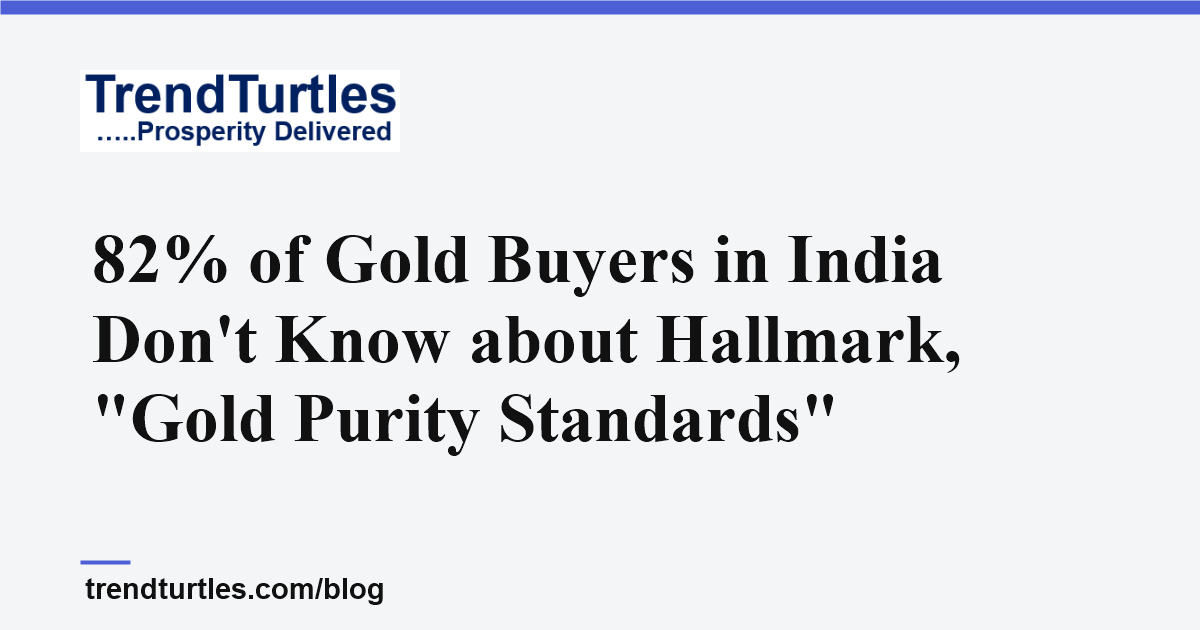
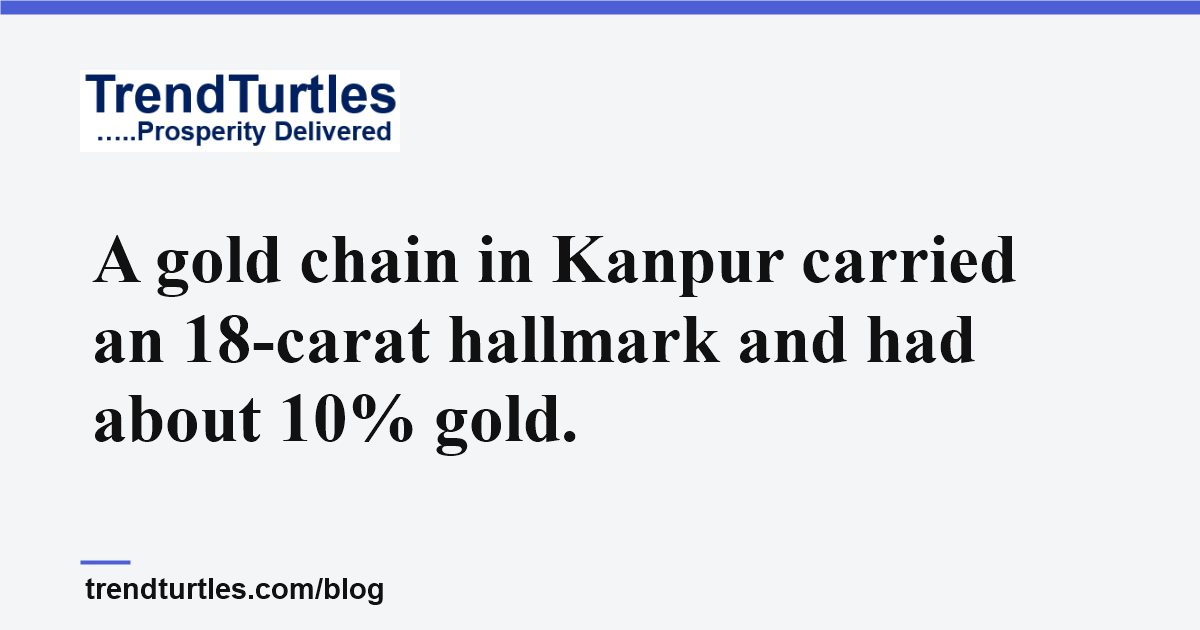
Rewrite hallmark post as series A episode (Kanpur 18K chain, about 10% gold); constitution: live episodes are updated, not duplicated

Changed region(s): [[0.0617, 0.3619, 0.8633, 0.6032], [0.0617, 0.6032, 0.7092, 0.7238]]

diff --git a/blog/gold-hallmark-check-india.html b/blog/gold-hallmark-check-india.html
@@ -3,12 +3,12 @@
 <head>
     <meta charset="UTF-8">
     <meta name="viewport" content="width=device-width, initial-scale=1.0">
-    <title>82% of Gold Buyers in India Don't Know about Hallmark</title>
-    <meta name="description" content="In a 2025 survey, only 18% of gold buyers in India said their jewellery had the 6-character hallmark code. Learn the 3 marks and the one-minute check.">
+    <title>Fake Gold Hallmark in India: 18K Mark, Only 10% Gold</title>
+    <meta name="description" content="A gold chain in Kanpur carried an 18-carat hallmark and had about 10% gold. Real fake hallmark cases, and the free BIS Care check that catches most of them.">
     <meta name="author" content="Mayank Gola">
     <meta name="robots" content="index, follow, max-snippet:-1, max-image-preview:large, max-video-preview:-1">
-    <meta property="og:title" content="82% of Gold Buyers in India Don't Know about Hallmark">
-    <meta property="og:description" content="In a 2025 survey, only 18% of gold buyers in India said their jewellery had the 6-character hallmark code. Learn the 3 marks and the one-minute check.">
+    <meta property="og:title" content="Fake Gold Hallmark in India: 18K Mark, Only 10% Gold">
+    <meta property="og:description" content="A gold chain in Kanpur carried an 18-carat hallmark and had about 10% gold. Real fake hallmark cases, and the free BIS Care check that catches most of them.">
     <meta property="og:url" content="https://trendturtles.com/blog/gold-hallmark-check-india.html">
     <meta property="og:type" content="article">
     <meta property="og:site_name" content="TrendTurtles">
@@ -16,8 +16,8 @@
     <meta property="og:image:width" content="1200">
     <meta property="og:image:height" content="630">
     <meta name="twitter:card" content="summary_large_image">
-    <meta name="twitter:title" content="82% of Gold Buyers in India Don't Know about Hallmark">
-    <meta name="twitter:description" content="In a 2025 survey, only 18% of gold buyers in India said their jewellery had the 6-character hallmark code. Learn the 3 marks and the one-minute check.">
+    <meta name="twitter:title" content="Fake Gold Hallmark in India: 18K Mark, Only 10% Gold">
+    <meta name="twitter:description" content="A gold chain in Kanpur carried an 18-carat hallmark and had about 10% gold. Real fake hallmark cases, and the free BIS Care check that catches most of them.">
     <meta name="twitter:image" content="https://trendturtles.com/assets/images/gold-hallmark-check-share.png">
     <link rel="canonical" href="https://trendturtles.com/blog/gold-hallmark-check-india.html">
     <link rel="icon" href="/favicon.ico" sizes="any">
@@ -29,11 +29,11 @@
     {
         "@context": "https://schema.org",
         "@type": "BlogPosting",
-        "headline": "82% of Gold Buyers in India Don't Know about Hallmark, \"Gold Purity Standards\"",
-        "description": "In a 2025 survey, only 18% of gold buyers in India said their jewellery had the 6-character hallmark code. Learn the 3 marks and the one-minute check.",
+        "headline": "A gold chain in Kanpur carried an 18-carat hallmark and had about 10% gold.",
+        "description": "A gold chain in Kanpur carried an 18-carat hallmark and had about 10% gold. Real fake hallmark cases, and the free BIS Care check that catches most of them.",
         "mainEntityOfPage": "https://trendturtles.com/blog/gold-hallmark-check-india.html",
         "datePublished": "2026-10-08",
-        "dateModified": "2026-10-18",
+        "dateModified": "2026-10-20",
         "inLanguage": "en-IN",
         "image": "https://trendturtles.com/assets/images/gold-hallmark-check-share.png",
         "author": {
@@ -61,7 +61,7 @@
         "itemListElement": [
             {"@type": "ListItem", "position": 1, "name": "Home", "item": "https://trendturtles.com/"},
             {"@type": "ListItem", "position": 2, "name": "Blog", "item": "https://trendturtles.com/blog/"},
-            {"@type": "ListItem", "position": 3, "name": "How to Recognise a Gold Hallmark", "item": "https://trendturtles.com/blog/gold-hallmark-check-india.html"}
+            {"@type": "ListItem", "position": 3, "name": "Fake Gold Hallmark", "item": "https://trendturtles.com/blog/gold-hallmark-check-india.html"}
         ]
     }
     </script>
@@ -88,116 +88,133 @@
     <p class="breadcrumb">
         <a href="../index.html">Home</a> &rsaquo;
         <a href="index.html">Blog</a> &rsaquo;
-        <span class="current">How to Recognise a Gold Hallmark</span>
+        <span class="current">Fake Gold Hallmark</span>
     </p>
-    <h1>82% of Gold Buyers in India Don't Know about Hallmark, "Gold Purity Standards"</h1>
-    <p class="dek">In a 2025 survey, only 18% of gold buyers said their jewellery carried the six-character hallmark code. The rest named a wrong length, said there was no code, or did not know.</p>
-    <p class="dek-source">LocalCircles survey of gold jewellery buyers, April 2025, 29,853 answers. Source: <a href="https://www.localcircles.com/a/press/page/bis-hallmark-survey" target="_blank" rel="noopener noreferrer">LocalCircles</a>.</p>
+    <h1>A gold chain in Kanpur carried an 18-carat hallmark and had about 10% gold.</h1>
+    <p class="dek">An 18-carat piece should be 75% gold. A fake hallmark looks like a real one, but you can check its code free in the BIS Care app. A ₹200 test at a BIS-recognised centre shows the real purity.</p>
+    <p class="dek-source">Kanpur police case, reported 11 and 13 October 2026. Source: <a href="https://the420.in/kanpur-fake-gold-hallmarking-bis-laser-machine-racket/" target="_blank" rel="noopener noreferrer">The420</a>, a fraud and cybercrime news site, and <a href="https://www.amarujala.com/uttar-pradesh/kanpur/gang-selling-jewelry-falsely-hallmarked-as-18-carat-busted-four-arrested-including-a-woman-2026-10-10" target="_blank" rel="noopener noreferrer">Amar Ujala</a>, a Hindi daily.</p>
 </section>
 
 <section class="section">
 
     <p class="byline">
-        By <strong>Mayank Gola</strong>, TrendTurtles &nbsp;·&nbsp; 7 min read &nbsp;·&nbsp; Published: October 2026
+        By <strong>Mayank Gola</strong>, TrendTurtles &nbsp;·&nbsp; 9 min read &nbsp;·&nbsp; Published: October 2026 &nbsp;·&nbsp; Updated: 20 October 2026
     </p>
 
-    <p>A hallmark is the government's stamp on a piece of gold. It says the gold is as pure as the seller claims. A real one carries a six-character code. In April 2025, a <a href="https://www.localcircles.com/a/press/page/bis-hallmark-survey" target="_blank" rel="noopener noreferrer">LocalCircles survey</a> asked people who had bought gold jewellery in the past year how long the code on it was. It got 29,853 answers:</p>
-    <ul>
-        <li>18% said six characters, which is correct.</li>
-        <li>27% named a wrong length: three, four or five.</li>
-        <li>28% said their jewellery had no code at all.</li>
-        <li>27% could not say.</li>
-    </ul>
-    <p>This was an online survey of the platform's own members, so read it as a strong signal, not a census. The signal is clear enough. Only 18% could point to the code that makes a hallmark checkable. The other 82% did not know the one thing a real hallmark must have.</p>
-    <p>When you cannot check the gold yourself, you do the only thing left. You trust the jeweller. That is the gap where buyers get hurt, and it takes one minute to close.</p>
+    <p>This article is part of our series on how gold buyers in India are cheated. In this one, someone puts a false purity mark on gold on purpose: a seller, a hallmarking centre, or the person testing your gold.</p>
 
-    <h2>What a Real Gold Hallmark Looks Like</h2>
-    <p>The stamp comes from the Bureau of Indian Standards (BIS), the government body that sets quality standards. Since July 2021, <a href="https://www.bis.gov.in/hallmarking-overview/hallmarking-faqs/hallmarking-faq/?lang=en" target="_blank" rel="noopener noreferrer">BIS says a hallmark has three marks</a>:</p>
+    <p>In October 2026, police in Kanpur stopped a woman who was allegedly trying to sell a gold chain. The chain carried an 18-carat hallmark. An 18-carat piece should be 75% gold. A test found <a href="https://the420.in/kanpur-fake-gold-hallmarking-bis-laser-machine-racket/" target="_blank" rel="noopener noreferrer">only about 10% gold in it</a>. Citing police sources, The420 reports that 25 to 30 machines in the city may be used to print fake hallmarks.</p>
+    <p>Four people were held for questioning. By late that night, police said no one had been arrested yet, <a href="https://www.amarujala.com/uttar-pradesh/kanpur/gang-selling-jewelry-falsely-hallmarked-as-18-carat-busted-four-arrested-including-a-woman-2026-10-10" target="_blank" rel="noopener noreferrer">Amar Ujala reported</a>.</p>
+    <p>A hallmark is meant to be the proof you can trust. When the mark itself is fake, you pay for gold you never got.</p>
+
+    <h2 id="real-hallmark">What a Real Gold Hallmark Looks Like</h2>
+    <p>The hallmark comes from the Bureau of Indian Standards (BIS), the government body that sets quality standards. Since July 2021, <a href="https://www.bis.gov.in/hallmarking-overview/hallmarking-faqs/hallmarking-faq/?lang=en" target="_blank" rel="noopener noreferrer">BIS says a hallmark has three marks</a>:</p>
     <ul>
         <li><strong>The BIS logo.</strong></li>
-        <li><strong>The purity.</strong> Karat is the measure of how pure gold is, and 24 karat is pure gold. So 22K916 means 22 karat, which is 91.6% gold.</li>
+        <li><strong>The purity.</strong> Karat measures how pure gold is, and 24 karat is pure gold. 22K916 means 22 karat, which is 91.6% gold. 18K750 means 18 karat, which is 75% gold.</li>
         <li><strong>A six-character code</strong> of letters and numbers, called the HUID. Every piece has its own.</li>
     </ul>
-    <p>If one of the three is missing, it is not a complete hallmark. The marks are tiny. Ask the jeweller to show you all three under a magnifying glass.</p>
-    <p>Not every gold piece has to carry a hallmark. Hallmarking is compulsory in <a href="https://www.tribuneindia.com/news/business/seven-more-districts-added-in-6th-phase-of-mandatory-hallmarking-of-gold-jewellery/" target="_blank" rel="noopener noreferrer">380 districts as of March 2026</a>, not in every district. Even there, <a href="https://www.bis.gov.in/hallmarking-jewellers/?lang=en" target="_blank" rel="noopener noreferrer">BIS lists some exemptions</a>. Three of them matter to an ordinary buyer:</p>
+    <p>If one of the three is missing, it is not a complete hallmark. The marks are small, so ask the jeweller to show you all three under a magnifying glass.</p>
+    <p>Some gold does not need a hallmark at all. Hallmarking is compulsory in <a href="https://www.tribuneindia.com/news/business/seven-more-districts-added-in-6th-phase-of-mandatory-hallmarking-of-gold-jewellery/" target="_blank" rel="noopener noreferrer">380 districts as of March 2026</a>, not in every district. Even there, <a href="https://www.bis.gov.in/hallmarking-jewellers/?lang=en" target="_blank" rel="noopener noreferrer">BIS lists cases where no hallmark is needed</a>. Three of them matter to an ordinary buyer:</p>
     <ul>
         <li>A piece that weighs less than two grams, such as a small nose pin.</li>
         <li>Kundan, Polki and Jadau jewellery.</li>
-        <li>A jeweller whose sales are up to ₹40 lakh a year, which means many small local shops.</li>
+        <li>A jeweller whose sales are up to ₹40 lakh a year.</li>
     </ul>
-    <p>So a piece with no hallmark is not always against the rules. But without a hallmark, you cannot check its purity yourself in the shop. Where you have a choice, pick the piece that has one.</p>
+    <p>So a piece without a hallmark can be legal. But you cannot check its purity yourself. Where you have a choice, pick the piece that has one.</p>
 
-    <h2>The One-Minute Hallmark Check</h2>
-    <p>You do not have to take the stamp on trust either. BIS has a free app called BIS Care. Open it, choose "Verify HUID", and type the six-character code from the piece. <a href="https://www.bis.gov.in/hallmarking-overview/consumer-protection/?lang=en" target="_blank" rel="noopener noreferrer">BIS says</a> this confirms the hallmark is authentic, and you can do it before you buy. If the app cannot find the code, or shows a different purity from the one stamped on the piece, do not buy it.</p>
-    <p>The same BIS page gives you a right most buyers have never heard of. If hallmarked jewellery turns out to be less pure than its mark, the buyer is entitled to twice the difference in value, plus the testing charges. BIS also says the <a href="https://www.bis.gov.in/hallmarking-overview/hallmarking-faqs/hallmarking-faq/?lang=en" target="_blank" rel="noopener noreferrer">bill must carry the hallmark details</a> if you ever need to complain, so ask for one that does.</p>
-    <p>Still in doubt after you buy? There is a second check, and it costs ₹200. <a href="https://www.bis.gov.in/hallmarking-overview/hallmarking-faqs/hallmarking-faq/?lang=en" target="_blank" rel="noopener noreferrer">BIS says</a> anyone can get hallmarked jewellery tested for purity at any BIS-recognised hallmarking centre by paying a testing charge of ₹200. The list of centres is on the BIS website.</p>
+    <h2 id="how-it-works">How a Fake Hallmark Reaches Your Gold</h2>
+    <p>The cases below show four ways it happens:</p>
+    <ul>
+        <li><strong>A seller stamps the mark on low-gold jewellery.</strong> The stamp says 18 or 22 carat, and the metal is far less.</li>
+        <li><strong>A hallmarking centre prints fake marks.</strong> The place meant to test the gold makes the false stamp itself.</li>
+        <li><strong>The person running the test changes the result.</strong> This happens when you sell or exchange old gold, and the shop's machine decides the price.</li>
+        <li><strong>A fake certificate comes with the piece.</strong> The seller shows you a printed paper instead of a BIS hallmark.</li>
+    </ul>
 
-    <p class="pull-quote">Only 18% of buyers surveyed said their jewellery carried the six-character code. Without that code, a hallmark cannot be checked.</p>
+    <h2 id="cases">What Buyers Went Through</h2>
 
-    <h2>Why Not Knowing Turns Into Trust</h2>
-    <p>The same survey asked buyers a second question. Was the gold jewellery you bought in the last 12 months hallmarked? Of 16,784 people, 65% said yes. 11% said no. 24% could not say.</p>
-    <p>So about one buyer in three could not confirm it. The <a href="https://www.localcircles.com/a/press/page/gold-hallmarking-survey" target="_blank" rel="noopener noreferrer">2024 survey</a> found the same thing: 65% said yes, and the rest said no or could not say. A buyer who cannot read the stamp has to rely on the person selling it.</p>
+    <h3 id="kashmir-shopkeeper">1. A buyer in Kashmir complained, and the shopkeeper was arrested (2025)</h3>
+    <p>In January 2025, a buyer went to police in Srinagar. He said the gold ornaments he bought from a shop in Anantnag district were fake. Police arrested the shopkeeper. Police said he admitted to <a href="https://www.etvbharat.com/en/!state/j-and-k-police-arrest-goldsmith-selling-counterfeit-ornaments-with-fake-hallmarks-enn25011605060" target="_blank" rel="noopener noreferrer">"embossing fake hallmarks on gold-like ornaments"</a>. In simple words: he stamped fake hallmarks on jewellery that only looked like gold. A laboratory test confirmed the ornaments were fake.</p>
 
-    <h2>Where That Trust Breaks</h2>
+    <h3 id="kadapa-centre">2. Fake BIS marks found at a hallmarking centre (2026)</h3>
+    <p>In August 2026, BIS raided a hallmarking centre in Kadapa, Andhra Pradesh. It seized a laser machine that was <a href="https://theprint.in/india/bis-raids-hallmarking-centre-in-andhras-kadapa-seizes-gold-jewellery-with-fake-markings/3019619/" target="_blank" rel="noopener noreferrer">allegedly used to print fake BIS hallmarks</a>. It also seized a pen drive with fake BIS marks. The 72.7 grams of jewellery it found had false marks and no HUID.</p>
+    <p>For a first offence, the BIS law allows up to one year in jail, a fine of at least ₹1 lakh, or both. The fine can go up to five times the value of the goods.</p>
 
-    <h3>When you buy</h3>
-    <p>A hallmark covers purity. It does not cover price. The making charge, which is the labour cost of turning gold into jewellery, is set by each shop. In a case <a href="https://www.indianjeweller.in/Indian-Jewellery-News/11371/kalyan-jewellers-to-compensate-consumer-for-overpricing-as-per-court-ruling" target="_blank" rel="noopener noreferrer">reported in 2018</a>, a customer was promised 3–5% and billed 23.5%, and a consumer court in Bangalore ordered the jeweller to compensate her. The full story and the maths are in <a href="gold-making-charges-india-real-cost.html">Gold Making Charges in India: What They Really Cost You</a>.</p>
+    <h3 id="bilaspur-exchange">3. A 22-carat bracelet tested as 20 carat, until the machine was changed (2026, alleged)</h3>
+    <p>In August 2026, a customer went to a large jewellery showroom in Bilaspur. He wanted to exchange a 22-carat bracelet with a HUID. A jeweller from the shop that sold the bracelet went with him. According to the jeweller's complaint, the showroom's machine showed 20 carat two or three times. Then the jeweller said who he was. After that, another employee allegedly changed a setting on the machine. The next test showed 916, which is 22 carat.</p>
+    <p>Police filed a case (an FIR) against the manager and staff, <a href="https://www.thehitavada.com/Encyc/2026/8/17/bilaspur-malabar-showroom-faces-fir-over-22k-gold-bracelet-testing-row.html" target="_blank" rel="noopener noreferrer">The Hitavada reported</a>. No court has found anyone guilty. In simple words: when a shop buys your old gold, its machine decides the price. A lower reading means less money for you.</p>
 
-    <h3>When you exchange old gold</h3>
-    <p>Here the jeweller tests your gold and then tells you what it is worth. The value should be simple: weight, times purity, times the day's rate. After that, the lender IIFL Finance puts the usual <a href="https://www.iifl.com/blogs/gold-loan/gold-jewellery-exchange-offer-at-jewellers" target="_blank" rel="noopener noreferrer">refining or melting charge at 1 to 3%</a>. The test should happen in front of you. A hallmark on your old piece helps, because the purity is already certified.</p>
+    <h3 id="jaipur-certificate">4. ₹6 crore paid for jewellery worth ₹300, with a fake certificate (2022, alleged)</h3>
+    <p>In 2022, an American tourist paid about ₹6 crore for jewellery in Jaipur. In 2024, experts at an exhibition in her country found it was fake, worth about ₹300. The sellers had allegedly given her a fake certificate saying the jewellery was genuine. Gold that should have been 14 carat was 2 carat, <a href="https://www.businesstoday.in/india/story/jaipur-us-woman-buys-jewellery-for-rs-6-crore-later-discovers-it-is-fake-and-worth-rs-300-432972-2024-06-11" target="_blank" rel="noopener noreferrer">Business Today reported</a>. Police arrested a man for allegedly issuing fake hallmark certificates.</p>
 
-    <h3>When you join a savings scheme</h3>
-    <p>In a gold savings scheme you pay every month and collect gold at the end. You pay first. That is the risk. A hallmark cannot help you, because there is no gold in your hand yet.</p>
-    <p>In November 2017, The News Minute <a href="https://www.thenewsminute.com/tamil-nadu/chennai-jeweller-nathella-sampathu-chetty-admits-cheating-investors-says-it-owes-over-rs-75" target="_blank" rel="noopener noreferrer">reported that the Chennai jeweller Nathella Sampathu Chetty had admitted to police that it owed ₹75 crore to more than 21,000 people</a> who had paid into its schemes. One customer told its reporters he had paid in about ₹1.3 lakh over three years. The company had already closed seven shops.</p>
-    <p>A legal explainer on LiveLaw notes that jewellers keep these schemes <a href="https://www.livelaw.in/articles/law-relating-to-jewellery-brands-gold-savings-schemes-279580" target="_blank" rel="noopener noreferrer">within 11 to 12 months, because of company deposit rules</a>. A scheme that asks you to keep paying for longer than a year is a reason to ask questions.</p>
+    <h3 id="chandigarh-bangles">5. "22-carat" bangles were 15.5 carat, and a court fined the jeweller (bought 2000, order 2018)</h3>
+    <p>In 2000, a man in Chandigarh bought bangles and a chain sold as 22 carat. A lab in Delhi later found the bangles were 15.5 carat and the chain 19.5 carat. Under a thin layer of gold, the bangles had silver, copper and zinc.</p>
+    <p>In 2018, a consumer court fined the jeweller ₹2.15 lakh. It also ordered ₹5 lakh as punishment, to be paid into a fund for consumers' legal aid. The jeweller had to replace the jewellery or refund its current price, <a href="https://www.tribuneindia.com/news/archive/chandigarh/city-jeweller-to-pay-rs7l-for-selling-inferior-items-657529/" target="_blank" rel="noopener noreferrer">The Tribune reported</a>.</p>
 
-    <h2>Buying, Exchanging, Saving: What You Can Check</h2>
+    <h2 id="how-often">How Often This Happens</h2>
+    <p>We could not find a national count. Two official figures, from two regions, show how big it can be:</p>
+    <ul>
+        <li><strong>Tamil Nadu:</strong> BIS checked 8,580 jewellery shops between January 2023 and April 2025. It seized about 21.21 kg of jewellery, worth ₹19.27 crore, that had fake hallmarks or no proper hallmark. The figures came out through a Right to Information request, <a href="https://thefederal.com/category/states/south/tamil-nadu/as-gold-prices-zoom-tn-sees-surge-in-fake-hallmark-jewellery-188252" target="_blank" rel="noopener noreferrer">The Federal reported</a>. That law lets any citizen ask a government office for facts.</li>
+        <li><strong>Kashmir:</strong> in September 2025, the head of BIS in Jammu and Kashmir spoke about fake hallmarks in the wedding season. He said: <a href="https://www.etvbharat.com/en/!state/wedding-season-in-kashmir-marred-by-fake-gold-hallmarking-bis-warns-enn25091203892" target="_blank" rel="noopener noreferrer">"I can confirm that around 10 per cent of jewellers are involved"</a>. In simple words: about one jeweller in ten there was selling gold with fake hallmarks.</li>
+    </ul>
+
+    <p class="pull-quote">An 18-carat piece should be 75% gold. The Kanpur chain had about 10%.</p>
+
+    <h2 id="impact">What a Fake Hallmark Costs You</h2>
+    <p><strong>You pay for gold that is not there.</strong> With the Kanpur chain, a buyer would pay for 75% gold and get about 10%. Most of the money would buy nothing.</p>
+    <p><strong>You find out late.</strong> In May 2024, LocalCircles, a citizen survey platform, wrote that buyers complain of <a href="https://www.localcircles.com/a/press/page/gold-hallmarking-survey" target="_blank" rel="noopener noreferrer">"being charged for 22 carat gold jewellery whereas in reality it was just 18 carat gold"</a>. Many found out only when they tried to remake or sell it. In Chandigarh, the court order came 18 years after the bangles were bought.</p>
+    <p><strong>A fake mark is easy to miss.</strong> In April 2025, <a href="https://www.localcircles.com/a/press/page/bis-hallmark-survey" target="_blank" rel="noopener noreferrer">LocalCircles asked people</a> who had bought gold jewellery in the past year how long the code on it was. It got 29,853 answers. Only 18% said six characters, which is correct. 27% named a wrong length. 28% said there was no code, and 27% could not say. Only the platform's registered members answered, so it is not a count of all buyers. Still, a buyer who does not know the code cannot tell a real mark from a fake one.</p>
+    <p><strong>You can lose again when you sell.</strong> If the shop's test reads your gold lower than it is, as alleged in Bilaspur, you get less money for real gold.</p>
+
+    <h2 id="what-catches-it">Four Tricks and the Check That Catches Each</h2>
     <div style="overflow-x: auto;">
     <table class="text-table">
-        <tr><td><strong>Situation</strong></td><td><strong>What you hand over</strong></td><td><strong>What can go wrong</strong></td><td><strong>What you can check</strong></td></tr>
-        <tr><td>Buying jewellery</td><td>Money</td><td>Purity lower than claimed. A making charge nobody explained.</td><td>The three marks. The code on BIS Care. A bill with each charge on its own line.</td></tr>
-        <tr><td>Exchanging old gold</td><td>Your gold</td><td>Purity or weight marked down. Large deductions.</td><td>The test, done in front of you. Every deduction in writing. 1 to 3% for refining is typical.</td></tr>
-        <tr><td>Savings scheme</td><td>Money, months in advance</td><td>The shop fails before you collect.</td><td>The length of the scheme. A receipt for every payment.</td></tr>
+        <tr><td><strong>The trick</strong></td><td><strong>Real case</strong></td><td><strong>What catches it</strong></td></tr>
+        <tr><td>Fake mark on low-gold jewellery</td><td>Kanpur 2026, Kashmir 2025</td><td>The code in BIS Care. A ₹200 test at a BIS-recognised centre.</td></tr>
+        <tr><td>False marks from a hallmarking centre</td><td>Kadapa 2026</td><td>The code in BIS Care. These pieces had no HUID at all.</td></tr>
+        <tr><td>Test result changed when you sell or exchange</td><td>Bilaspur 2026 (alleged)</td><td>The test done in front of you, the result in writing, and a second test at a BIS-recognised centre.</td></tr>
+        <tr><td>Fake certificate instead of a hallmark</td><td>Jaipur 2022 (alleged)</td><td>Only the BIS hallmark counts. Check its code in BIS Care.</td></tr>
     </table>
     </div>
-    <p>The check gets weaker as you go down the table. When you buy, the government's stamp does the work. In a scheme, nothing does it for you.</p>
+    <p>One free app catches three of the four. For the fourth, you have to watch the test.</p>
 
-    <h2>What To Do Before You Pay</h2>
-    <p>Six steps. The first two take a minute.</p>
+    <h2 id="what-to-do">What To Do Before and After You Pay</h2>
+    <p>There are six steps. You can do the first two in the shop, before you pay.</p>
     <ol>
-        <li><strong>Look for the three marks.</strong> BIS logo, purity, six-character code.</li>
-        <li><strong>Type the code into BIS Care.</strong> Do it in the shop, before you pay.</li>
-        <li><strong>Ask for a full bill.</strong> Purity, weight, the code, making charge and GST (the tax), each on its own line.</li>
-        <li><strong>Exchanging old gold? Watch the test.</strong> Get the weight, the purity and every deduction in writing.</li>
-        <li><strong>Joining a scheme? Check its length.</strong> It should end within a year. Keep a receipt for every payment.</li>
-        <li><strong>Feeling rushed? Wait a day.</strong> A fair price will still be there tomorrow.</li>
+        <li><strong>Look for the three marks.</strong> Ask for a magnifying glass. You need the BIS logo, the purity (such as 22K916) and the six-character code.</li>
+        <li><strong>Check the code in BIS Care.</strong> It is a free app from BIS. Choose "Verify HUID" and type the code. <a href="https://www.bis.gov.in/hallmarking-overview/consumer-protection/?lang=en" target="_blank" rel="noopener noreferrer">BIS says</a> this checks that the hallmark is real. If the app cannot find the code, do not buy.</li>
+        <li><strong>Ask for a full bill.</strong> It should show the purity, the weight, the code, the making charge and GST (the tax), each on its own line. Keep it, so you have a record of what you were sold.</li>
+        <li><strong>Do not accept a private certificate in place of a hallmark.</strong> A paper from the shop is not the government's mark.</li>
+        <li><strong>When you sell or exchange, watch the test.</strong> Ask for the purity and weight in writing. If the reading looks low, say you will get it tested at a BIS-recognised centre first.</li>
+        <li><strong>If you have doubts after you buy, get it tested for ₹200.</strong> <a href="https://www.bis.gov.in/hallmarking-overview/hallmarking-faqs/hallmarking-faq/?lang=en" target="_blank" rel="noopener noreferrer">BIS says</a> anyone can have hallmarked jewellery tested at a BIS-recognised hallmarking centre for ₹200. Is the gold less pure than its mark? Then <a href="https://www.bis.gov.in/hallmarking-overview/consumer-protection/?lang=en" target="_blank" rel="noopener noreferrer">BIS rules</a> say you are owed two times the value of the missing gold. You also get the testing charges back.</li>
     </ol>
     <p>Who needs this most:</p>
     <ul>
-        <li><strong>A family buying for a wedding.</strong> It is the biggest gold bill you will pay, and old gold is often exchanged in the same visit. Do steps 1 to 4 on every piece.</li>
-        <li><strong>Someone saving a little each month.</strong> Step 5 is yours. Your risk is the shop, not the gold.</li>
-        <li><strong>A first-time or gift buyer.</strong> Steps 1 and 2 are enough to make sure the piece is what the tag says.</li>
+        <li><strong>A family buying for a wedding.</strong> It is the biggest gold bill most families pay. Do steps 1 to 3 on every piece, not just the big ones.</li>
+        <li><strong>Someone exchanging old gold.</strong> Step 5 matters most for you, because the shop's test sets the money you get.</li>
+        <li><strong>A first-time or gift buyer.</strong> Steps 1 and 2 tell you the piece is what the tag says.</li>
+        <li><strong>Anyone with hallmarked gold bought years ago.</strong> Step 6 works on old hallmarked pieces too.</li>
     </ul>
 
     <div class="key-takeaways">
         <h2>Key Takeaways</h2>
         <ul>
-            <li>In a 2025 survey of gold buyers in India, only 18% said their jewellery carried the six-character hallmark code.</li>
+            <li>In Kanpur in 2026, a chain with an 18-carat hallmark had about 10% gold.</li>
+            <li>Fake marks come from sellers and from hallmarking centres. In Bilaspur, showroom staff are accused of changing a test result at exchange.</li>
             <li>A real hallmark has three marks: the BIS logo, the purity, and a six-character code.</li>
-            <li>The free BIS Care app checks that code in about a minute, before you pay.</li>
-            <li>If hallmarked gold is less pure than its mark, BIS rules entitle you to twice the difference, so keep the bill.</li>
-            <li>Still in doubt? Any BIS-recognised hallmarking centre will test hallmarked jewellery for a ₹200 charge.</li>
-            <li>Pieces under two grams, Kundan, Polki and Jadau, and jewellers with sales up to ₹40 lakh a year are exempt from hallmarking.</li>
-            <li>A hallmark protects purity only. On exchange, watch the test. In a savings scheme, check the shop and the scheme's length.</li>
+            <li>The free BIS Care app checks that code before you pay.</li>
+            <li>A BIS-recognised centre tests hallmarked jewellery for ₹200. If it is less pure than its mark, you are owed two times the value of the missing gold.</li>
+            <li>Keep the bill. It is your record of what you were sold, even years later.</li>
         </ul>
     </div>
 
     <div class="related-reading">
         <h2>Related Reading</h2>
         <ul>
+            <li><a href="gold-making-charges-india-real-cost.html">Gold Making Charges in India: What They Really Cost You</a></li>
             <li><a href="gold-at-home-limit-india.html">Gold at Home Limit: The 500g Rule and Inherited Gold Tax</a></li>
             <li><a href="sovereign-gold-bond-tax-india.html">Sovereign Gold Bonds: "Secondary-Market Buyers Now Face 12.5% LTCG at Maturity"</a></li>
-            <li><a href="gold-making-charges-india-real-cost.html">Gold Making Charges in India: What They Really Cost You</a></li>
             <li><a href="digital-gold-safe-india.html">"There Is No Gold and No Money": Is Digital Gold Safe in India?</a></li>
         </ul>
     </div>

diff --git a/blog/index.html b/blog/index.html
@@ -81,6 +81,13 @@
     <h2>Latest Articles</h2>
     <div class="blog-list">
 
+        <a class="blog-card" href="gold-hallmark-check-india.html">
+            <div class="blog-content">
+                <h3>A gold chain in Kanpur carried an 18-carat hallmark and had about 10% gold.</h3>
+                <p>An 18-carat piece should be 75% gold. A fake hallmark looks like a real one, but you can check its code free in the BIS Care app. A ₹200 test at a BIS-recognised centre shows the real purity.</p>
+            </div>
+        </a>
+
         <a class="blog-card" href="gold-at-home-limit-india.html">
             <div class="blog-content">
                 <h3>Family Gold - "500 gms. per married lady, 250 gms. per unmarried lady and 100 gms. per male member of the family need not be seized"</h3>
@@ -99,13 +106,6 @@
             <div class="blog-content">
                 <h3>"There Is No Gold and No Money"</h3>
                 <p>Customers of one gold app were saying this to each other. A judge wrote it in his order in 2026. It is not proven.</p>
-            </div>
-        </a>
-
-        <a class="blog-card" href="gold-hallmark-check-india.html">
-            <div class="blog-content">
-                <h3>82% of Gold Buyers in India Don't Know about Hallmark, "Gold Purity Standards"</h3>
-                <p>In a 2025 survey, only 18% of gold buyers said their jewellery carried the six-character hallmark code. The rest named a wrong length, said there was no code, or did not know.</p>
             </div>
         </a>
 

diff --git a/blog/gold-at-home-limit-india.html b/blog/gold-at-home-limit-india.html
@@ -33,7 +33,7 @@
         "description": "No law limits gold at home. A 1994 tax order, a 2016 statement and tribunals differ. Unexplained gold can cost about ₹99 of ₹100. How to stay safe.",
         "mainEntityOfPage": "https://trendturtles.com/blog/gold-at-home-limit-india.html",
         "datePublished": "2026-10-18",
-        "dateModified": "2026-10-18",
+        "dateModified": "2026-10-20",
         "inLanguage": "en-IN",
         "image": "https://trendturtles.com/assets/images/gold-at-home-limit-india-share.png",
         "author": {
@@ -197,7 +197,7 @@
     <div class="related-reading">
         <h2>Related Reading</h2>
         <ul>
-            <li><a href="gold-hallmark-check-india.html">82% of Gold Buyers in India Don't Know about Hallmark, "Gold Purity Standards"</a></li>
+            <li><a href="gold-hallmark-check-india.html">A Gold Chain in Kanpur Carried an 18-Carat Hallmark and Had About 10% Gold</a></li>
             <li><a href="sovereign-gold-bond-tax-india.html">Sovereign Gold Bonds: "Secondary-Market Buyers Now Face 12.5% LTCG at Maturity"</a></li>
             <li><a href="digital-gold-safe-india.html">"There Is No Gold and No Money": Is Digital Gold Safe in India?</a></li>
             <li><a href="gold-making-charges-india-real-cost.html">Gold Making Charges in India: What They Really Cost You</a></li>

diff --git a/blog/gold-making-charges-india-real-cost.html b/blog/gold-making-charges-india-real-cost.html
@@ -33,7 +33,7 @@
         "description": "Making charges and GST cost about 16% of a typical gold jewellery bill — money you never get back on resale. The exact math, real examples, and how to cut the cost.",
         "mainEntityOfPage": "https://trendturtles.com/blog/gold-making-charges-india-real-cost.html",
         "datePublished": "2026-10-06",
-        "dateModified": "2026-10-18",
+        "dateModified": "2026-10-20",
         "inLanguage": "en-IN",
         "image": "https://trendturtles.com/assets/images/gold-making-charges-share.png",
         "author": {
@@ -249,7 +249,7 @@
         <ul>
             <li><a href="gold-at-home-limit-india.html">Gold at Home Limit: The 500g Rule and Inherited Gold Tax</a></li>
             <li><a href="sovereign-gold-bond-tax-india.html">Sovereign Gold Bonds: "Secondary-Market Buyers Now Face 12.5% LTCG at Maturity"</a></li>
-            <li><a href="gold-hallmark-check-india.html">82% of Gold Buyers in India Don't Know about Hallmark, "Gold Purity Standards"</a></li>
+            <li><a href="gold-hallmark-check-india.html">A Gold Chain in Kanpur Carried an 18-Carat Hallmark and Had About 10% Gold</a></li>
             <li><a href="digital-gold-safe-india.html">"There Is No Gold and No Money": Is Digital Gold Safe in India?</a></li>
         </ul>
     </div>

diff --git a/blog/sovereign-gold-bond-tax-india.html b/blog/sovereign-gold-bond-tax-india.html
@@ -33,7 +33,7 @@
         "description": "From 1 April 2026, people who bought gold bonds on the stock exchange pay 12.5% tax at maturity. Those who bought at issue do not. See which one you are.",
         "mainEntityOfPage": "https://trendturtles.com/blog/sovereign-gold-bond-tax-india.html",
         "datePublished": "2026-10-15",
-        "dateModified": "2026-10-18",
+        "dateModified": "2026-10-20",
         "inLanguage": "en-IN",
         "image": "https://trendturtles.com/assets/images/sovereign-gold-bond-tax-india-share.png",
         "author": {
@@ -202,7 +202,7 @@
         <h2>Related Reading</h2>
         <ul>
             <li><a href="gold-at-home-limit-india.html">Gold at Home Limit: The 500g Rule and Inherited Gold Tax</a></li>
-            <li><a href="gold-hallmark-check-india.html">82% of Gold Buyers in India Don't Know about Hallmark, "Gold Purity Standards"</a></li>
+            <li><a href="gold-hallmark-check-india.html">A Gold Chain in Kanpur Carried an 18-Carat Hallmark and Had About 10% Gold</a></li>
             <li><a href="digital-gold-safe-india.html">"There Is No Gold and No Money": Is Digital Gold Safe in India?</a></li>
             <li><a href="gold-making-charges-india-real-cost.html">Gold Making Charges in India: What They Really Cost You</a></li>
         </ul>

diff --git a/blog/digital-gold-safe-india.html b/blog/digital-gold-safe-india.html
@@ -33,7 +33,7 @@
         "description": "Customers of one gold app said \"there is no gold and no money\", a High Court order shows. It is not proven. Is digital gold safe in India? 7 checks to do.",
         "mainEntityOfPage": "https://trendturtles.com/blog/digital-gold-safe-india.html",
         "datePublished": "2026-10-11",
-        "dateModified": "2026-10-18",
+        "dateModified": "2026-10-20",
         "inLanguage": "en-IN",
         "image": "https://trendturtles.com/assets/images/digital-gold-safe-india-share.png",
         "author": {
@@ -204,7 +204,7 @@
         <ul>
             <li><a href="gold-at-home-limit-india.html">Gold at Home Limit: The 500g Rule and Inherited Gold Tax</a></li>
             <li><a href="sovereign-gold-bond-tax-india.html">Sovereign Gold Bonds: "Secondary-Market Buyers Now Face 12.5% LTCG at Maturity"</a></li>
-            <li><a href="gold-hallmark-check-india.html">82% of Gold Buyers in India Don't Know about Hallmark, "Gold Purity Standards"</a></li>
+            <li><a href="gold-hallmark-check-india.html">A Gold Chain in Kanpur Carried an 18-Carat Hallmark and Had About 10% Gold</a></li>
             <li><a href="gold-making-charges-india-real-cost.html">Gold Making Charges in India: What They Really Cost You</a></li>
         </ul>
     </div>
